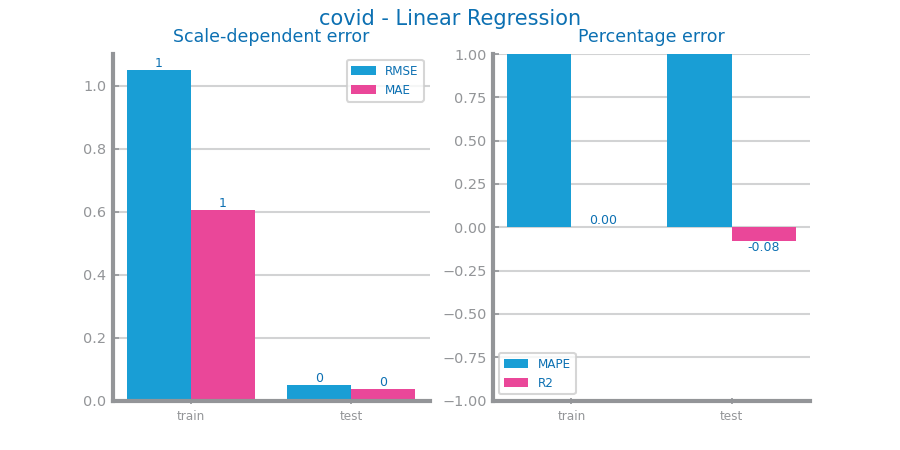
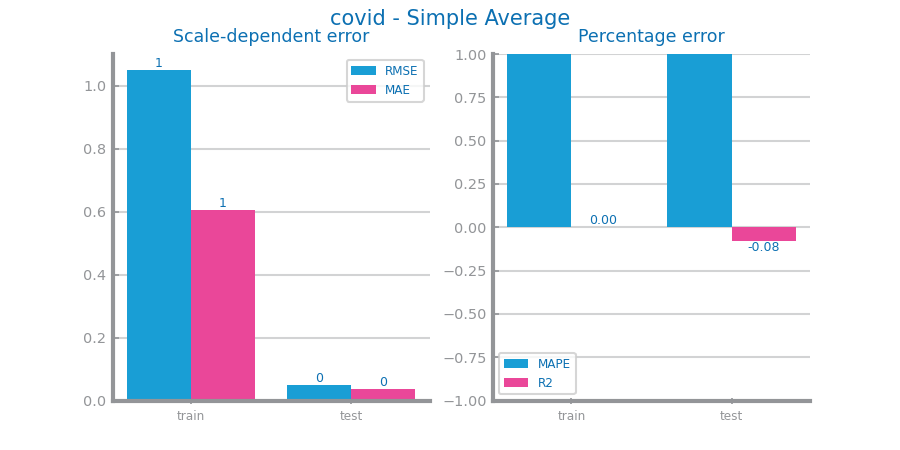
correcting some titles

Changed region(s): [[0.3422, 0.0, 0.6533, 0.0622]]

diff --git a/forecasting_health/forecasting/persistence_model_optimist.py b/forecasting_health/forecasting/persistence_model_optimist.py
@@ -80,14 +80,14 @@ prd_tst: Series = fr_mod.predict(test)
 
 
 
-plot_forecasting_eval(train, test, prd_trn, prd_tst, title=f"{file_tag} - Linear Regression")
+plot_forecasting_eval(train, test, prd_trn, prd_tst, title=f"{file_tag} - Persistence Model Optimist")
 savefig(f"forecasting_health/forecasting/images/{file_tag}_persistence_model_optimist_eval.png")
 
 plot_forecasting_series(
     train,
     test,
     prd_tst,
-    title=f"{file_tag} - Linear Regression",
+    title=f"{file_tag} - Persistence Model Optimist",
     xlabel=timecol,
     ylabel=target,
 )

diff --git a/forecasting_health/forecasting/persistence_model_realist.py b/forecasting_health/forecasting/persistence_model_realist.py
@@ -84,14 +84,14 @@ prd_tst: Series = fr_mod.predict(test)
 
 
 
-plot_forecasting_eval(train, test, prd_trn, prd_tst, title=f"{file_tag} - Linear Regression")
+plot_forecasting_eval(train, test, prd_trn, prd_tst, title=f"{file_tag} - Persistence Model Realist")
 savefig(f"forecasting_health/forecasting/images/{file_tag}_persistence_model_realist_eval.png")
 
 plot_forecasting_series(
     train,
     test,
     prd_tst,
-    title=f"{file_tag} - Linear Regression",
+    title=f"{file_tag} - Persistence Model Realist",
     xlabel=timecol,
     ylabel=target,
 )

diff --git a/forecasting_health/forecasting/simple_average.py b/forecasting_health/forecasting/simple_average.py
@@ -78,14 +78,14 @@ prd_tst: Series = fr_mod.predict(test)
 
 
 
-plot_forecasting_eval(train, test, prd_trn, prd_tst, title=f"{file_tag} - Linear Regression")
+plot_forecasting_eval(train, test, prd_trn, prd_tst, title=f"{file_tag} - Simple Average")
 savefig(f"forecasting_health/forecasting/images/{file_tag}_simple_average_eval.png")
 
 plot_forecasting_series(
     train,
     test,
     prd_tst,
-    title=f"{file_tag} - Linear Regression",
+    title=f"{file_tag} - Simple Average",
     xlabel=timecol,
     ylabel=target,
 )
